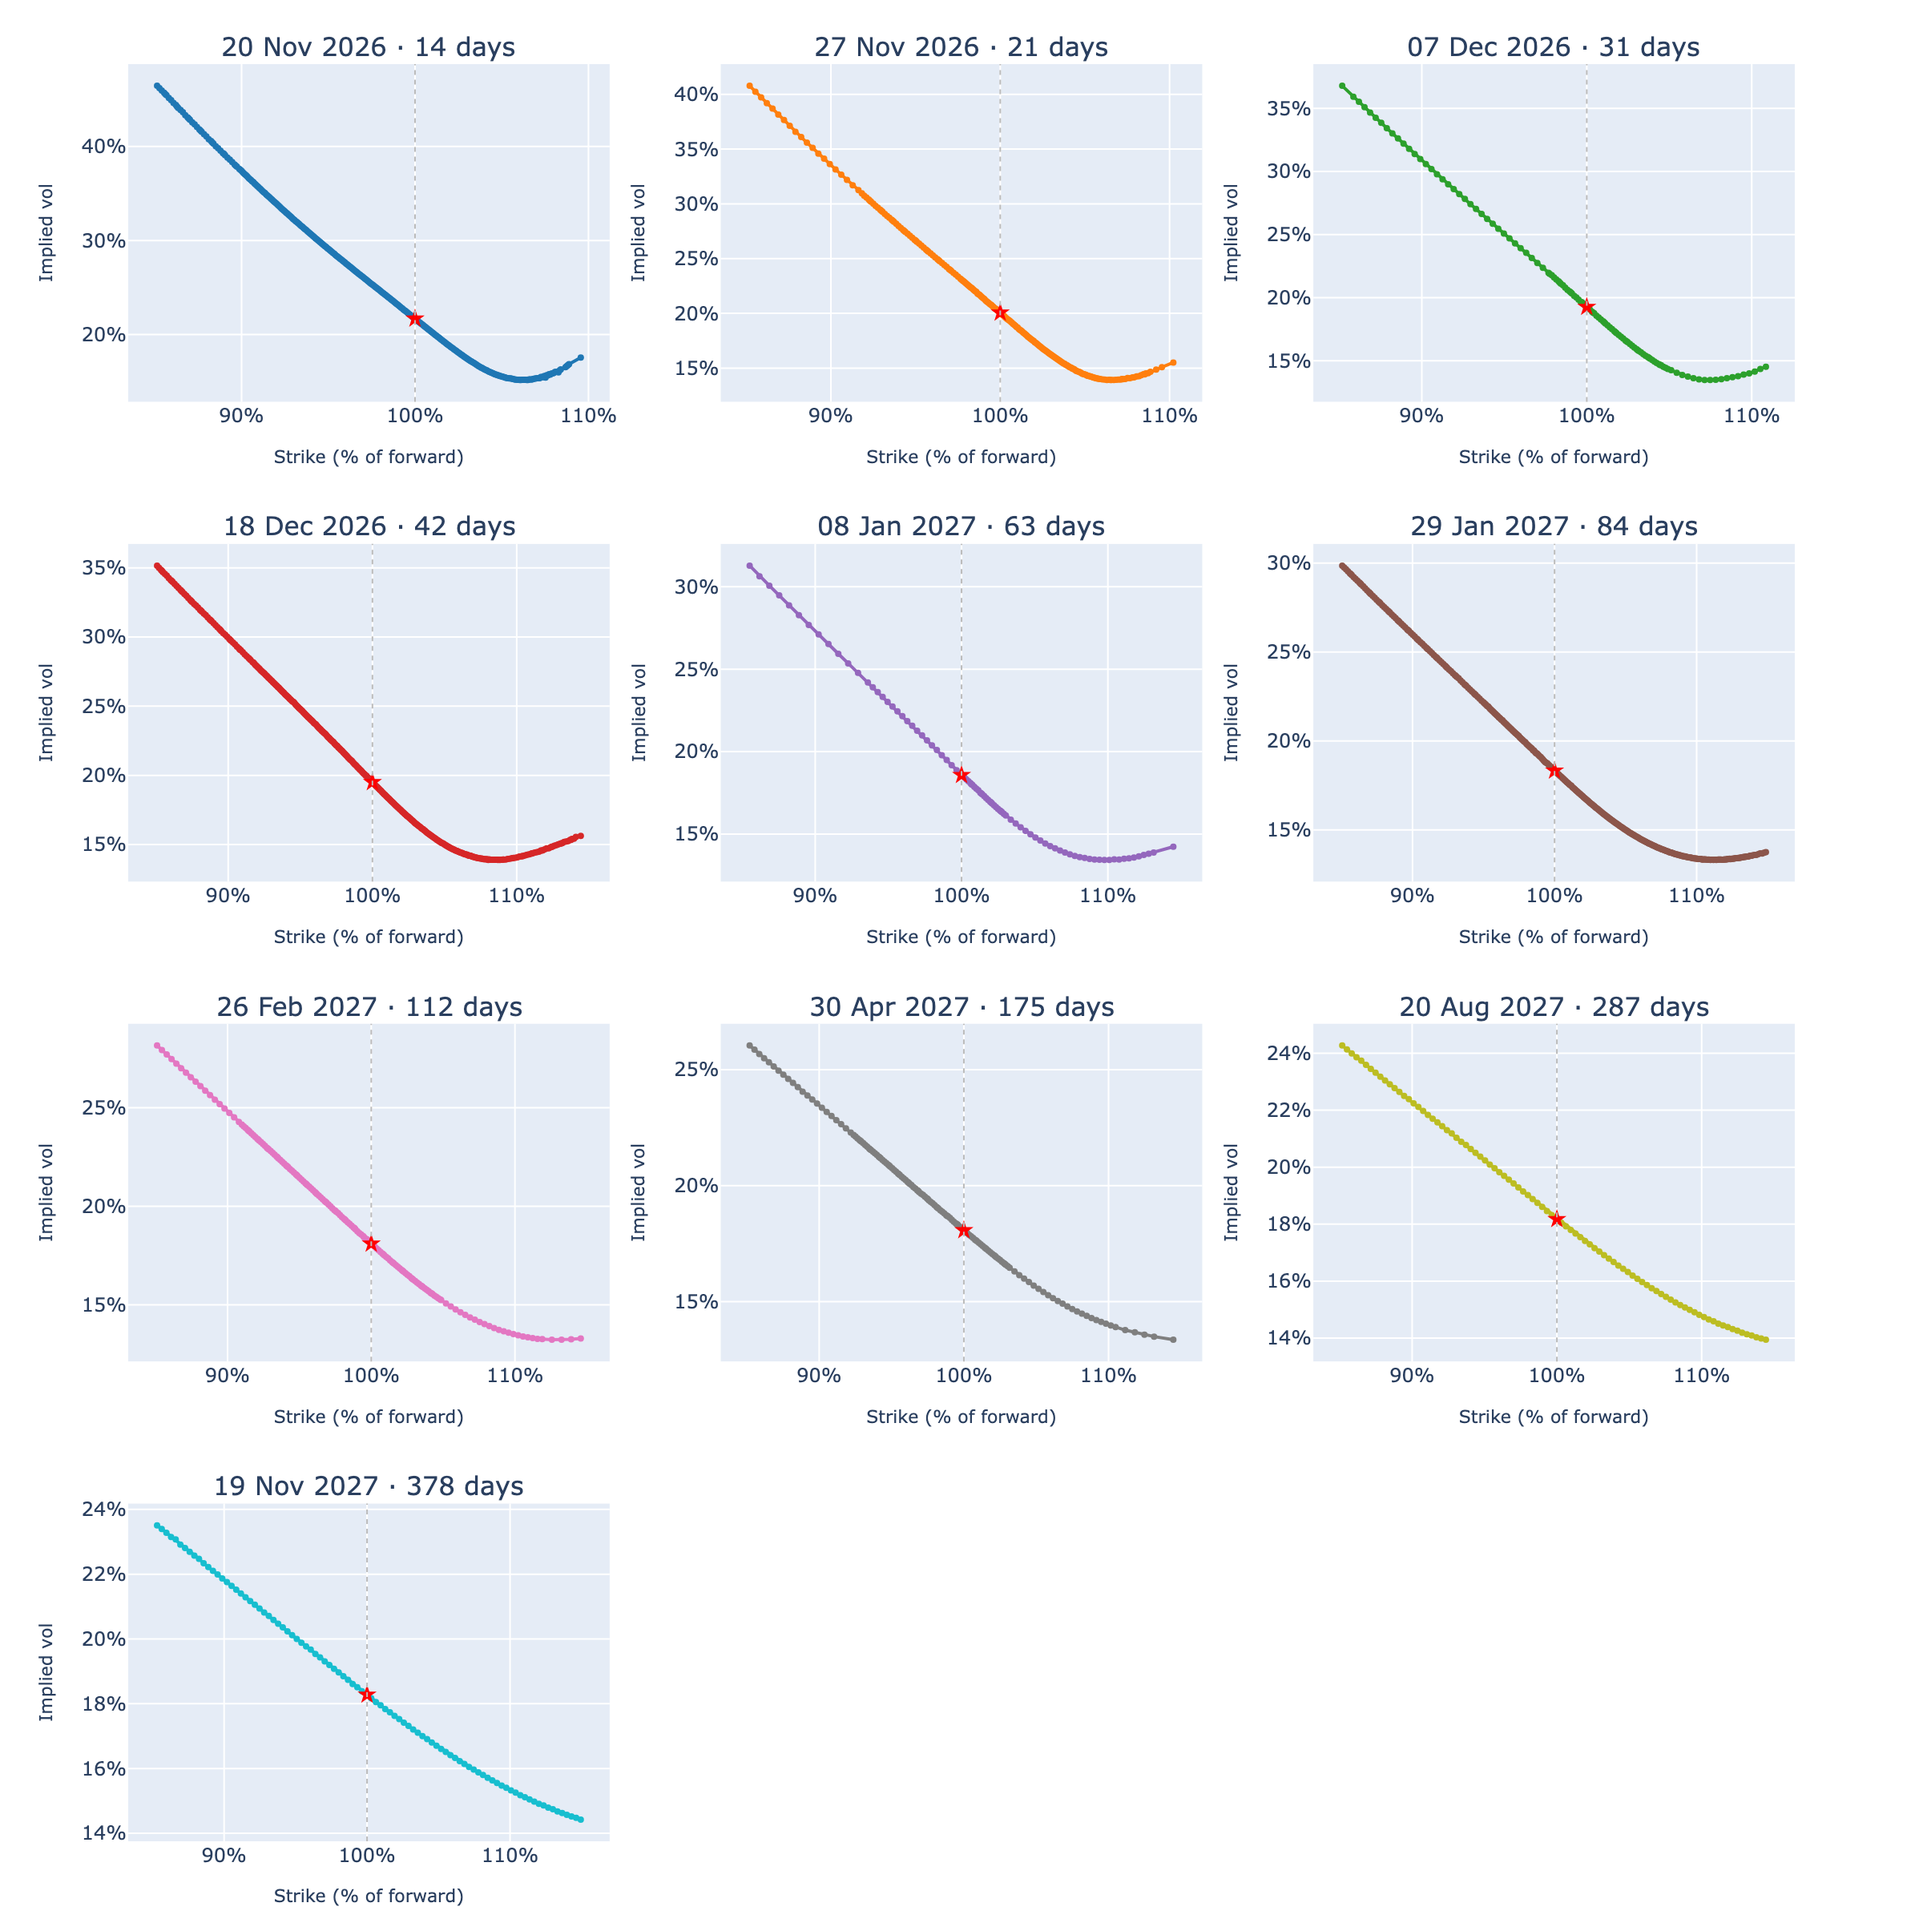
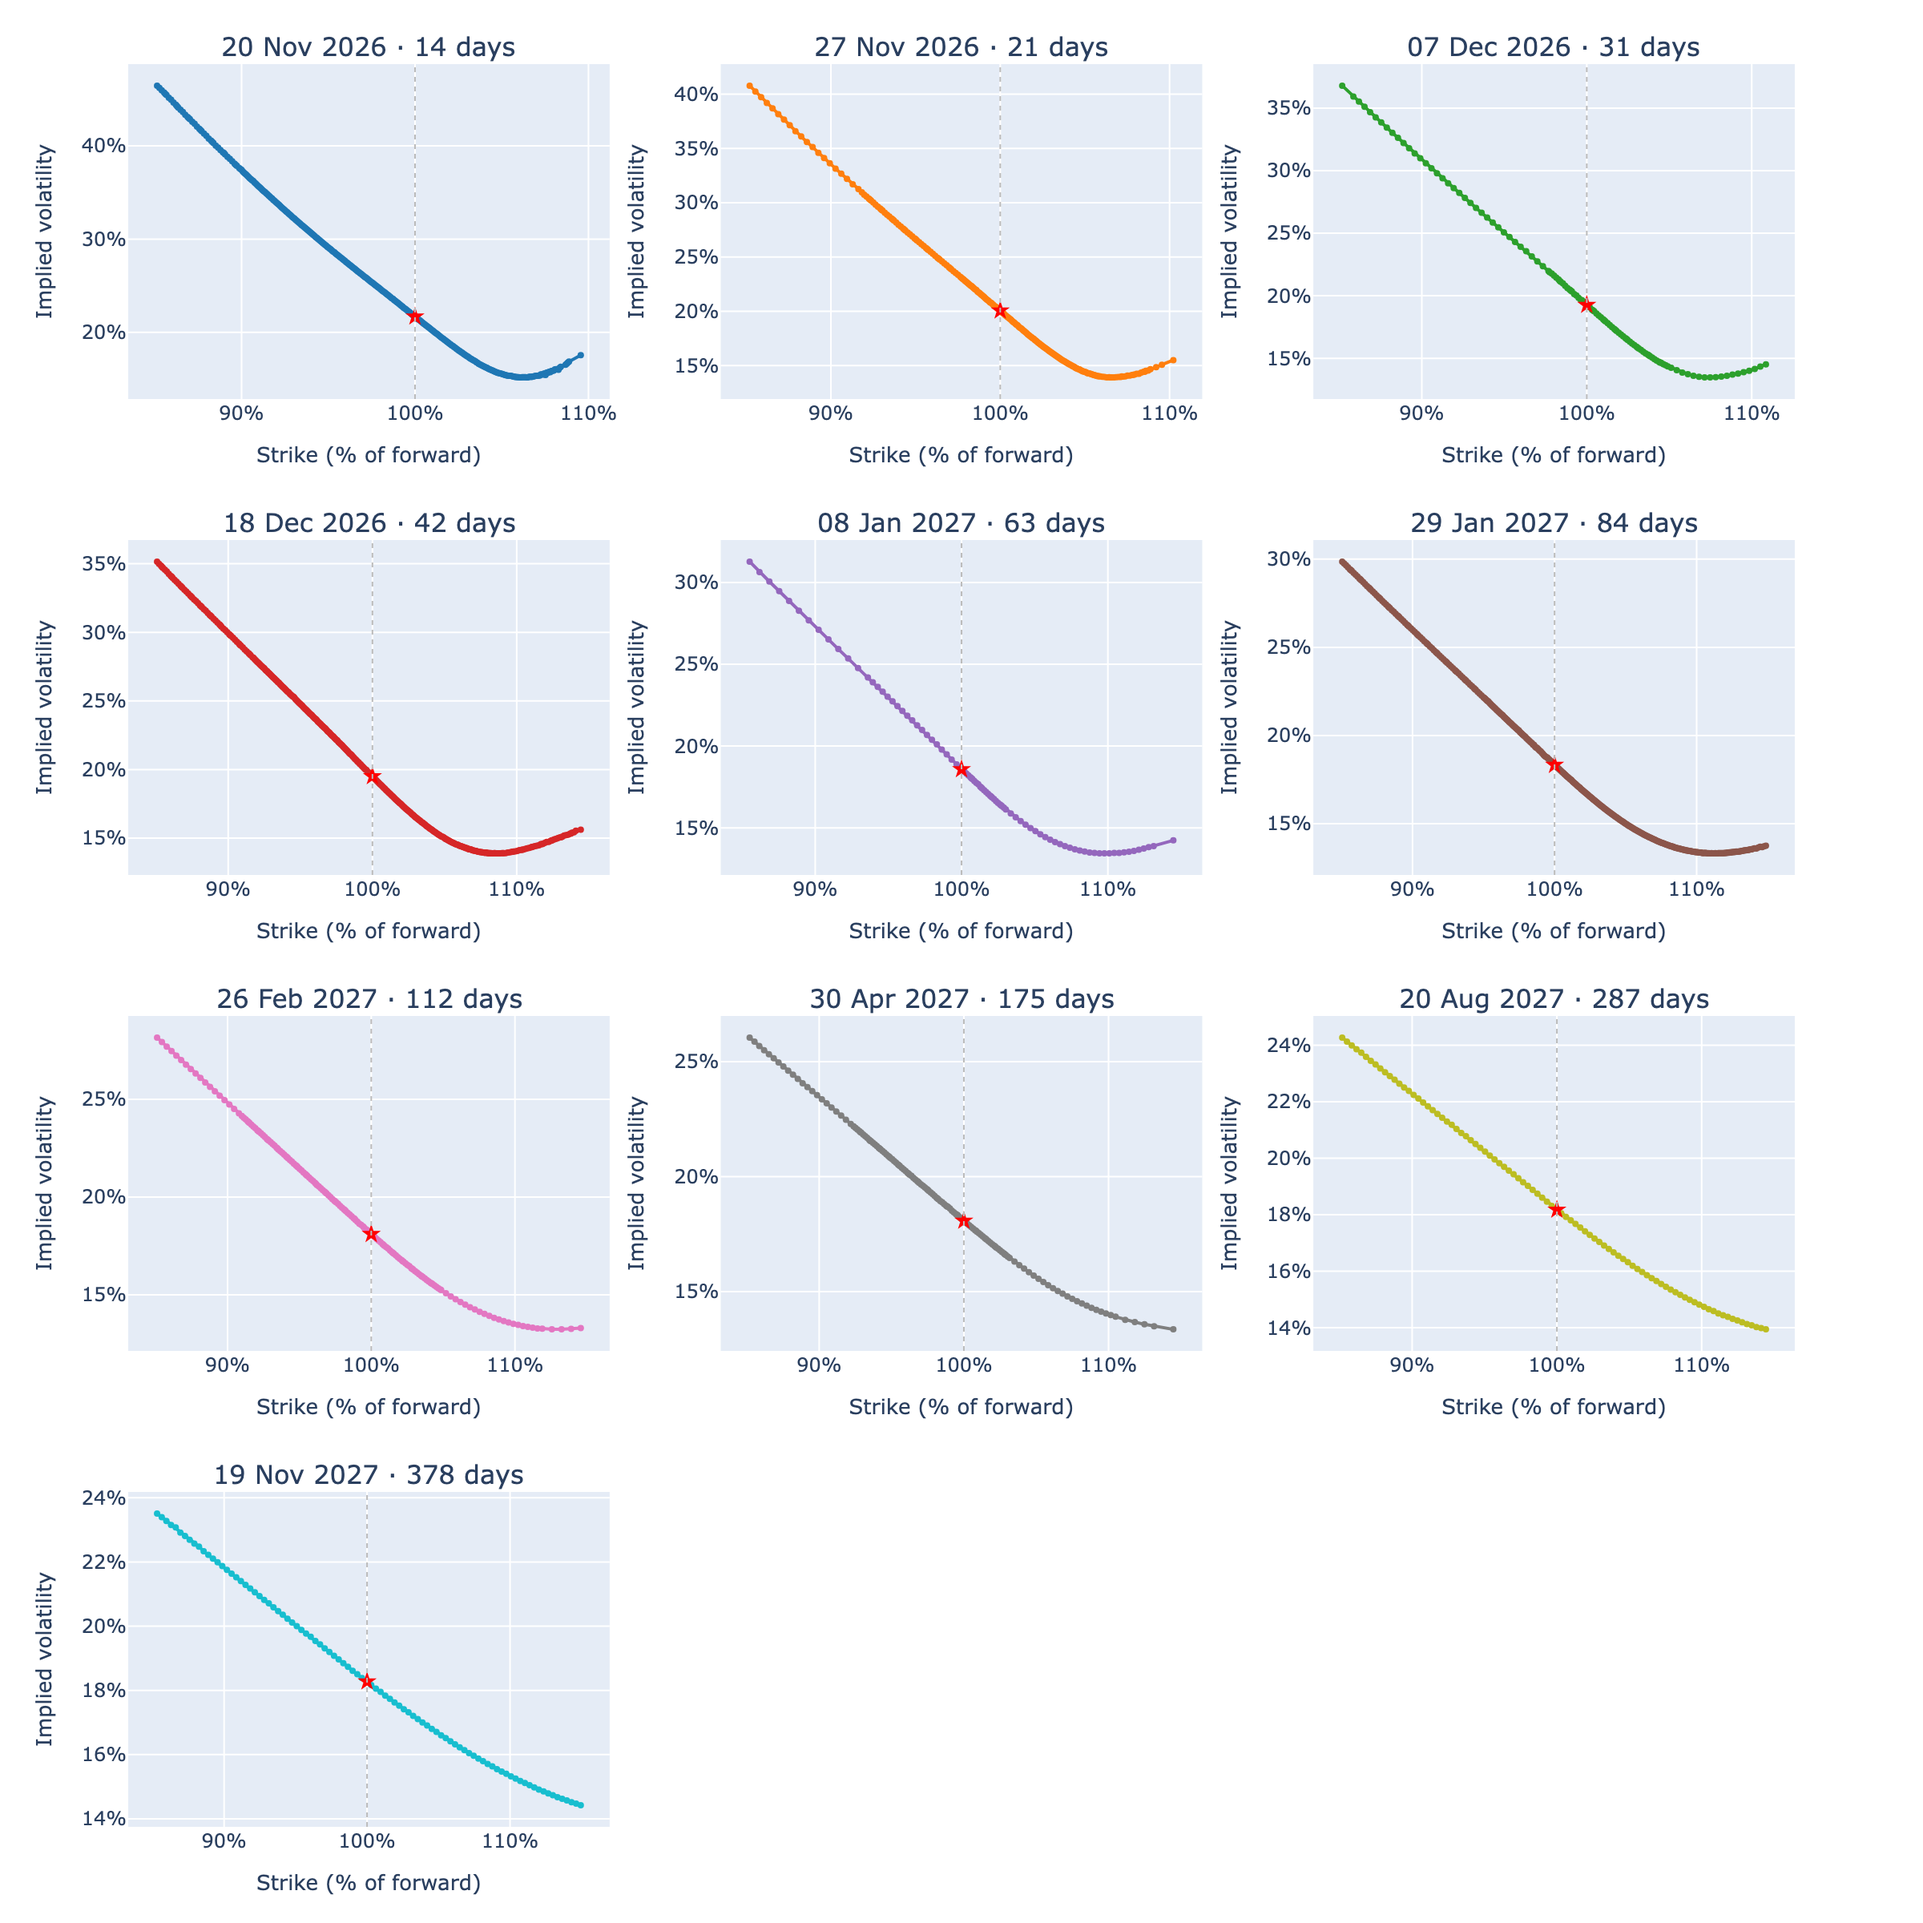
Add smile x-axis toggle (% of forward vs SPX strike) and larger axis titles

diff --git a/iv_surface.py b/iv_surface.py
@@ -214,8 +214,14 @@ def fmt_expiry(exp, days):
     return f"{datetime.strptime(exp, '%Y-%m-%d'):%d %b %Y} · {days} days"
 
 
-def make_figures(df, atm_df):
-    """Return the three Plotly figures: 3-D surface, smile grid, term structure."""
+def make_figures(df, atm_df, x_axis="moneyness"):
+    """
+    Return the three Plotly figures: 3-D surface, smile grid, term structure.
+    x_axis: "moneyness" (strike as % of forward) or "strike" (SPX index level)
+    for the smile panels.
+    """
+    by_strike = x_axis == "strike"
+    axis_font = dict(size=13)
     # ── 1. 3-D surface ────────────────────────────────────────────────────────
     m_vals, T_vals, ZZ = surface_grid(df, atm_df)
     fig3d = go.Figure(go.Surface(
@@ -228,9 +234,9 @@ def make_figures(df, atm_df):
     fig3d.update_layout(
         title=None,
         scene=dict(
-            xaxis=dict(title="Strike (% of forward)", tickformat=".0%"),
-            yaxis=dict(title="Days to expiry"),
-            zaxis=dict(title="Implied volatility", tickformat=".0%"),
+            xaxis=dict(title=dict(text="Strike (% of forward)", font=axis_font), tickformat=".0%"),
+            yaxis=dict(title=dict(text="Days to expiry", font=axis_font)),
+            zaxis=dict(title=dict(text="Implied volatility", font=axis_font), tickformat=".0%"),
             camera=dict(eye=dict(x=1.8, y=-1.6, z=0.8)),
         ),
         height=620, margin=dict(l=0, r=0, t=10, b=0),
@@ -252,28 +258,34 @@ def make_figures(df, atm_df):
         r, c = idx // n_cols + 1, idx % n_cols + 1
         side = np.where(sub["cp"] == "C", "call", "put")
         fig_smile.add_trace(go.Scatter(
-            x=sub["moneyness"], y=sub["IV"],
+            x=sub["strike"] if by_strike else sub["moneyness"], y=sub["IV"],
             mode="lines+markers", marker=dict(size=4),
             line=dict(color=colors[idx % len(colors)]),
             name=row["expiry"], showlegend=False,
             customdata=np.c_[sub["strike"], side, sub["bid"], sub["ask"], sub["mid"]],
-            hovertemplate=("Strike %{customdata[0]:,.0f} %{customdata[1]} (%{x:.1%} of forward)"
+            text=sub["moneyness"],
+            hovertemplate=("Strike %{customdata[0]:,.0f} %{customdata[1]} (%{text:.1%} of forward)"
                            "<br>Bid %{customdata[2]:.2f} · Ask %{customdata[3]:.2f}"
                            " · Mid %{customdata[4]:.2f}"
                            "<br>Implied vol: %{y:.1%}<extra></extra>"),
         ), row=r, col=c)
         fig_smile.add_trace(go.Scatter(
-            x=[1.0], y=[row["IV_atm"]], mode="markers",
+            x=[row["forward"] if by_strike else 1.0], y=[row["IV_atm"]], mode="markers",
             marker=dict(size=9, color="red", symbol="star"),
             showlegend=False,
-            hovertemplate="At-the-money implied vol: %{y:.1%}<extra></extra>",
+            hovertemplate=(f"At-the-money (forward {row['forward']:,.0f})"
+                           "<br>Implied vol: %{y:.1%}<extra></extra>"),
         ), row=r, col=c)
-        fig_smile.add_vline(x=1.0, line=dict(color="#bbb", dash="dot", width=1), row=r, col=c)
-    fig_smile.update_xaxes(title_text="Strike (% of forward)", tickformat=".0%",
-                           title_font=dict(size=11))
-    fig_smile.update_yaxes(title_text="Implied vol", tickformat=".0%",
-                           title_font=dict(size=11))
-    fig_smile.update_layout(height=300 * n_rows, margin=dict(t=40, b=20),
+        fig_smile.add_vline(x=row["forward"] if by_strike else 1.0, line=dict(color="#bbb", dash="dot", width=1), row=r, col=c)
+    if by_strike:
+        fig_smile.update_xaxes(title_text="Strike (SPX index level)", tickformat=",.0f",
+                               title_font=axis_font)
+    else:
+        fig_smile.update_xaxes(title_text="Strike (% of forward)", tickformat=".0%",
+                               title_font=axis_font)
+    fig_smile.update_yaxes(title_text="Implied volatility", tickformat=".0%",
+                           title_font=axis_font)
+    fig_smile.update_layout(height=300 * n_rows, margin=dict(t=40, b=60),
                             paper_bgcolor="rgba(0,0,0,0)")
 
     # ── 3. Term structure ─────────────────────────────────────────────────────
@@ -287,8 +299,9 @@ def make_figures(df, atm_df):
         name="ATM IV",
     ))
     fig_ts.update_layout(
-        xaxis=dict(title="Days to expiry"),
-        yaxis=dict(title="At-the-money implied volatility", tickformat=".1%"),
+        xaxis=dict(title=dict(text="Days to expiry", font=axis_font)),
+        yaxis=dict(title=dict(text="At-the-money implied volatility", font=axis_font),
+                   tickformat=".1%"),
         height=380, margin=dict(t=10, b=40),
         paper_bgcolor="rgba(0,0,0,0)",
     )

diff --git a/app.py b/app.py
@@ -36,6 +36,11 @@ with st.sidebar:
         get_surface.clear()
     st.caption(f"Auto-refreshes every {REFRESH_SECONDS // 60} min.")
 
+    st.header("Chart")
+    x_axis = st.radio("Smile x-axis", ["moneyness", "strike"],
+                      format_func={"moneyness": "Strike as % of forward",
+                                   "strike": "Strike (SPX index level)"}.get)
+
     st.header("Filters")
     moneyness  = st.slider("Strike range (% of forward)", 0.70, 1.30, (0.85, 1.15), 0.01)
     max_spread = st.slider("Max bid/ask spread (% of mid)", 0.05, 1.00, 0.50, 0.05)
@@ -71,15 +76,18 @@ c[2].metric(f"Implied dividend yield · {s['q_row']['days']}d", f"{s['q_row']['d
 c[3].metric("IV check vs source", s["iv_gap_txt"], "median |ours − source|", delta_color="off")
 
 # ── Charts ────────────────────────────────────────────────────────────────────
-figs = make_figures(df, atm_df)
+figs = make_figures(df, atm_df, x_axis)
 tab_surf, tab_smile, tab_ts, tab_inputs, tab_data = st.tabs(
     ["3-D surface", "Smiles by expiry", "Term structure", "Per-expiry inputs", "Data"])
 
 with tab_surf:
     st.plotly_chart(figs["surface"], width="stretch")
 with tab_smile:
-    st.caption("X-axis: strike as a % of each expiry's forward (100% = at the money). "
-               "Y-axis: implied vol from the bid/ask mid. Hover a point for its bid, ask and mid.")
+    st.caption(("X-axis: strike in SPX index points; the dotted line is that expiry's forward price. "
+                if x_axis == "strike" else
+                "X-axis: strike as a % of each expiry's forward (100% = at the money, dotted line). ")
+               + "Y-axis: implied vol from the bid/ask mid. Red star = at-the-money. "
+                 "Hover a point for its strike, bid, ask and mid. Switch the x-axis in the sidebar.")
     st.plotly_chart(figs["smiles"], width="stretch")
 with tab_ts:
     st.plotly_chart(figs["term_structure"], width="stretch")
